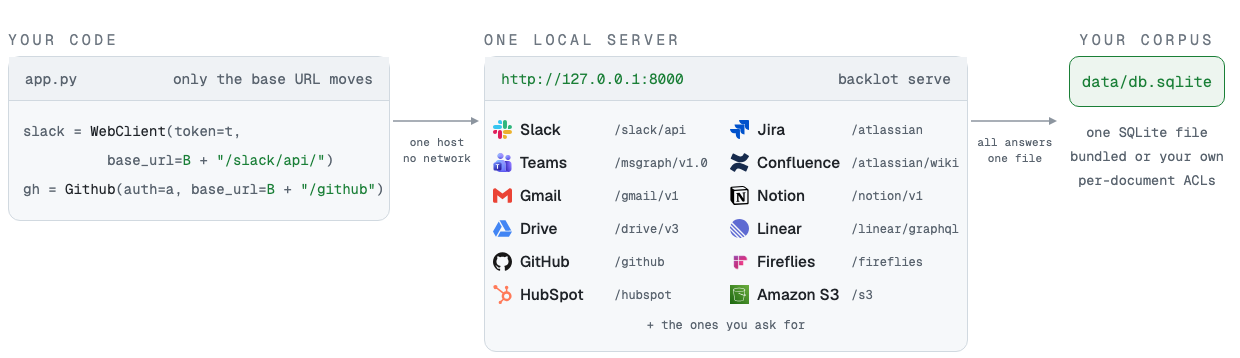
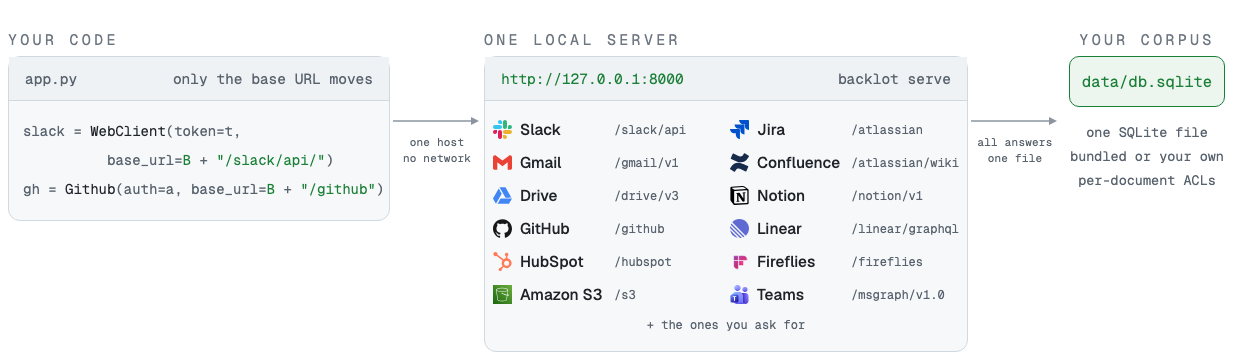
Microsoft Teams is listed last in the README, the architecture figure and the demo
The README's first sentence and its service table name Microsoft Teams
after S3, in README.md and the PyPI copy alike. The figure's Teams row is
the last in the right column, under Fireflies, and "+ the ones you ask
for" runs under both columns. The demo's source cycle ends on the Teams
card, so the tally beside it ticks Microsoft Teams last, before "and
more"; the alt text in README.md says so.

diff --git a/scripts/readme-demo-recorder/src/parts.tsx b/scripts/readme-demo-recorder/src/parts.tsx
@@ -284,18 +284,6 @@ export type Served = {
 
 export const SERVED: Served[] = [
   {
-    subject: "Microsoft Teams",
-    prefix: "/msgraph/v1.0/",
-    request: "GET /msgraph/v1.0/teams/{t}/channels/{c}/messages",
-    fields: [
-      ['"id"', '"1788523200811"'],
-      ['"messageType"', '"message"'],
-      ['"createdDateTime"', '"2026-09-04T12:00:00.811Z"'],
-      ['"from"', '{ "user": { "displayName": "Dana Whitfield", … } }'],
-      ['"body"', '{ "content": "<p>Quarterly numbers are in.</p>", … }'],
-    ],
-  },
-  {
     subject: "Gmail",
     prefix: "/gmail/v1/",
     request: "GET /gmail/v1/users/{u}/messages/{id}",
@@ -389,6 +377,18 @@ export const SERVED: Served[] = [
       ['"ETag"', '"fb7eb5c32fbcc41f873658f2e9b2ab99"'],
       ['"Size"', "75"],
       ['"StorageClass"', '"STANDARD"'],
+    ],
+  },
+  {
+    subject: "Microsoft Teams",
+    prefix: "/msgraph/v1.0/",
+    request: "GET /msgraph/v1.0/teams/{t}/channels/{c}/messages",
+    fields: [
+      ['"id"', '"1788523200811"'],
+      ['"messageType"', '"message"'],
+      ['"createdDateTime"', '"2026-09-04T12:00:00.811Z"'],
+      ['"from"', '{ "user": { "displayName": "Dana Whitfield", … } }'],
+      ['"body"', '{ "content": "<p>Quarterly numbers are in.</p>", … }'],
     ],
   },
 ];

diff --git a/README.md b/README.md
@@ -11,9 +11,9 @@
 
 **Run enterprise SaaS APIs locally.**
 
-Backlot is a local emulator for Slack, Microsoft Teams, Gmail, Google Drive, GitHub, Jira, Notion, S3 and other enterprise APIs. It reproduces the response shapes, pagination, authentication, errors and per-document access controls an integration has to handle, over a deterministic corpus you control — so you build and test against the official vendor SDKs with **no vendor account**, **no OAuth approval**, **no secrets in CI** and **no network**.
+Backlot is a local emulator for Slack, Gmail, Google Drive, GitHub, Jira, Notion, S3, Microsoft Teams and other enterprise APIs. It reproduces the response shapes, pagination, authentication, errors and per-document access controls an integration has to handle, over a deterministic corpus you control — so you build and test against the official vendor SDKs with **no vendor account**, **no OAuth approval**, **no secrets in CI** and **no network**.
 
-![Connecting Slack to an app, two ways, side by side. On the left, the real Slack API: create a workspace, register an app, add a bot user, pick OAuth scopes, register a redirect URL, install to the workspace — then wait on an admin to approve it, with still zero API calls made. On the right, Backlot: pip install, backlot serve, and one changed base URL, after which a conversations.history response comes back with the same fields, pagination and per-document ACLs. A day gone, against seconds. Then the same three commands for one source after another, Microsoft Teams, Gmail, Google Drive, GitHub and the rest, each answering a real request, and last a write: chat.postMessage posts a message, and Backlot's own /_meta/overlay reports what was written.](assets/demo.gif)
+![Connecting Slack to an app, two ways, side by side. On the left, the real Slack API: create a workspace, register an app, add a bot user, pick OAuth scopes, register a redirect URL, install to the workspace — then wait on an admin to approve it, with still zero API calls made. On the right, Backlot: pip install, backlot serve, and one changed base URL, after which a conversations.history response comes back with the same fields, pagination and per-document ACLs. A day gone, against seconds. Then the same three commands for one source after another, Gmail, Google Drive, GitHub and the rest, Microsoft Teams at the end, each answering a real request, and after them a write: chat.postMessage posts a message, and Backlot's own /_meta/overlay reports what was written.](assets/demo.gif)
 
 ## Try it in 60 seconds
 
@@ -86,7 +86,6 @@ It emulates the documented subset of each API it supports, not every vendor endp
 | Service | Base path | Example, on the official SDK |
 |---|---|---|
 | Slack | `/slack/api` | [`slack.py`](examples/using-official-sdk/slack.py) |
-| Microsoft Teams | `/msgraph/v1.0` | [`msteams.py`](examples/using-official-sdk/msteams.py) |
 | Gmail | `/gmail/v1` | [`gmail.py`](examples/using-official-sdk/gmail.py) |
 | Google Drive (Docs, Sheets, Slides) | `/drive/v3` `/docs/v1` `/sheets/v4` `/slides/v1` | [`gdrive.py`](examples/using-official-sdk/gdrive.py) |
 | GitHub | `/github` | [`github.py`](examples/using-official-sdk/github.py) |
@@ -97,6 +96,7 @@ It emulates the documented subset of each API it supports, not every vendor endp
 | HubSpot | `/hubspot` | [`hubspot.py`](examples/using-official-sdk/hubspot.py) |
 | Fireflies | `/fireflies/graphql` | [`fireflies.py`](examples/using-official-sdk/fireflies.py) |
 | Amazon S3 | `/s3` | [`s3.py`](examples/using-official-sdk/s3.py) |
+| Microsoft Teams | `/msgraph/v1.0` | [`msteams.py`](examples/using-official-sdk/msteams.py) |
 
 The roadmap lives in [the tracking issue](https://github.com/brekkylab/backlot/issues/89) — ask there for the source you need.
 

diff --git a/README.pypi.md b/README.pypi.md
@@ -10,7 +10,7 @@
 
 **Run enterprise SaaS APIs locally.**
 
-Backlot is a local emulator for Slack, Microsoft Teams, Gmail, Google Drive, GitHub, Jira, Notion, S3 and other enterprise APIs. It reproduces the response shapes, pagination, authentication, errors and per-document access controls an integration has to handle, over a deterministic corpus you control — so you build and test against the official vendor SDKs with **no vendor account**, **no OAuth approval**, **no secrets in CI** and **no network**.
+Backlot is a local emulator for Slack, Gmail, Google Drive, GitHub, Jira, Notion, S3, Microsoft Teams and other enterprise APIs. It reproduces the response shapes, pagination, authentication, errors and per-document access controls an integration has to handle, over a deterministic corpus you control — so you build and test against the official vendor SDKs with **no vendor account**, **no OAuth approval**, **no secrets in CI** and **no network**.
 
 ## Try it in 60 seconds
 
@@ -80,7 +80,6 @@ It emulates the documented subset of each API it supports, not every vendor endp
 | Service | Base path | Example, on the official SDK |
 |---|---|---|
 | Slack | `/slack/api` | [`slack.py`](https://github.com/brekkylab/backlot/blob/main/examples/using-official-sdk/slack.py) |
-| Microsoft Teams | `/msgraph/v1.0` | [`msteams.py`](https://github.com/brekkylab/backlot/blob/main/examples/using-official-sdk/msteams.py) |
 | Gmail | `/gmail/v1` | [`gmail.py`](https://github.com/brekkylab/backlot/blob/main/examples/using-official-sdk/gmail.py) |
 | Google Drive (Docs, Sheets, Slides) | `/drive/v3` `/docs/v1` `/sheets/v4` `/slides/v1` | [`gdrive.py`](https://github.com/brekkylab/backlot/blob/main/examples/using-official-sdk/gdrive.py) |
 | GitHub | `/github` | [`github.py`](https://github.com/brekkylab/backlot/blob/main/examples/using-official-sdk/github.py) |
@@ -91,6 +90,7 @@ It emulates the documented subset of each API it supports, not every vendor endp
 | HubSpot | `/hubspot` | [`hubspot.py`](https://github.com/brekkylab/backlot/blob/main/examples/using-official-sdk/hubspot.py) |
 | Fireflies | `/fireflies/graphql` | [`fireflies.py`](https://github.com/brekkylab/backlot/blob/main/examples/using-official-sdk/fireflies.py) |
 | Amazon S3 | `/s3` | [`s3.py`](https://github.com/brekkylab/backlot/blob/main/examples/using-official-sdk/s3.py) |
+| Microsoft Teams | `/msgraph/v1.0` | [`msteams.py`](https://github.com/brekkylab/backlot/blob/main/examples/using-official-sdk/msteams.py) |
 
 The roadmap lives in [the tracking issue](https://github.com/brekkylab/backlot/issues/89) — ask there for the source you need.
 
